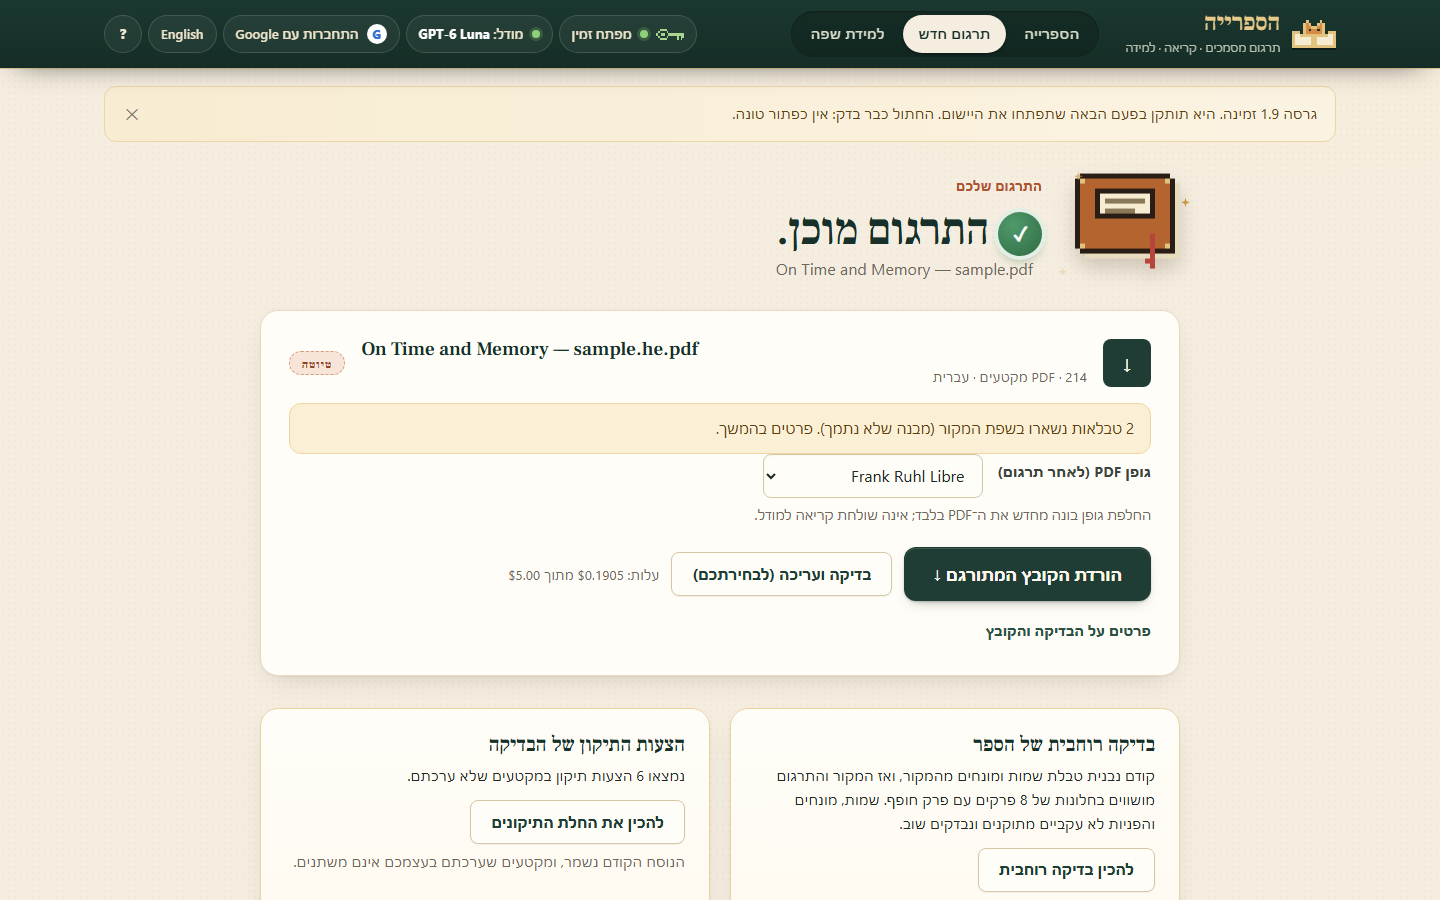
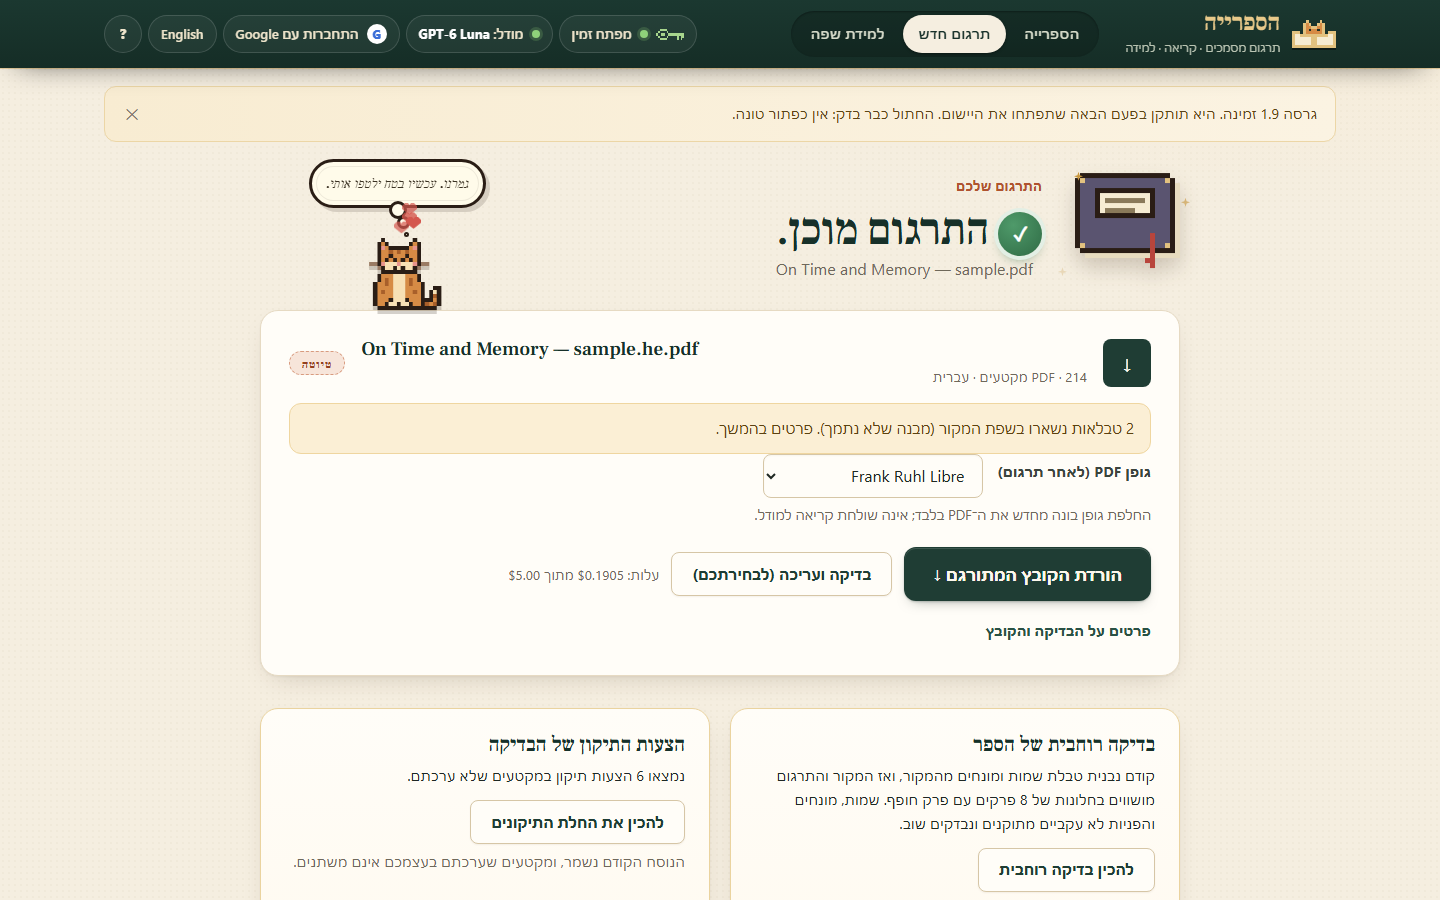
UX-LIBRARY-ROAMING: bindery props beside the book; the cat always has a perch

Changed region(s): [[0.2188, 0.1556, 0.3438, 0.3733], [0.75, 0.1867, 0.8125, 0.28]]

diff --git a/design/pixel-library/library-app.css b/design/pixel-library/library-app.css
@@ -122,6 +122,7 @@ main{max-width:1280px;margin:auto;padding:34px 24px 80px;outline:none}
 .hero-art{position:relative;min-height:260px;-webkit-mask-image:linear-gradient(to left,transparent 0,#000 26%);mask-image:linear-gradient(to left,transparent 0,#000 26%)}
 html[dir=ltr] .hero-art{-webkit-mask-image:linear-gradient(to right,transparent 0,#000 26%);mask-image:linear-gradient(to right,transparent 0,#000 26%)}
 .hero-scene{position:absolute;inset:0;width:100%;height:100%}
+.art-floor{position:absolute;inset-inline-start:30%;inset-inline-end:5%;bottom:20%;height:2px;pointer-events:none}
 html[dir=rtl] .hero-scene{transform:scaleX(-1)} /* Window and moon stay clear of the fade beside the copy. */
 .hero-scene .star{animation:twinkle 3.2s steps(2,end) infinite}
 .hero-scene .s1{animation-delay:-.8s}.hero-scene .s2{animation-delay:-1.6s}.hero-scene .s3{animation-delay:-2.4s}
@@ -325,7 +326,7 @@ progress::-moz-progress-bar{border-radius:999px;background:var(--green-700)}
 .decision-opt b{display:block}.decision-opt small{display:block;color:var(--muted);font-size:.82rem}
 
 /* The bindery — a warm desk scene with a real page turn. */
-.bindery{--turn:3s;position:relative;height:300px;margin:6px auto 30px;max-width:620px;border-radius:var(--r-xl);overflow:hidden;text-align:start;
+.bindery{--turn:3s;position:relative;height:300px;margin:6px auto 30px;max-width:760px;border-radius:var(--r-xl);overflow:hidden;text-align:start;
   background:radial-gradient(380px 240px at 50% 22%,#f3cf8a3d,transparent 70%),linear-gradient(#1d3a31,#152c25 64%,#3a2616 64%,#2b1c10);box-shadow:var(--sh-3),inset 0 0 0 1px #ffffff12}
 .bindery[data-step=reading]{--turn:2.4s}.bindery[data-step=reviewing]{--turn:3.6s}.bindery[data-step=rebuilding]{--turn:1.5s}
 .bd-glow{position:absolute;left:50%;top:40px;width:520px;height:320px;transform:translateX(-50%);background:radial-gradient(closest-side,#ffd99033,transparent);animation:glowpulse 6s ease-in-out infinite}
@@ -363,39 +364,33 @@ progress::-moz-progress-bar{border-radius:999px;background:var(--green-700)}
 @keyframes leaf-turn{0%,12%{transform:translateZ(1px) rotateY(0deg)}50%{transform:translateZ(16px) rotateY(-90deg)}88%,100%{transform:translateZ(2px) rotateY(-180deg)}}
 @keyframes leaf-shade{0%,12%{opacity:0}48%{opacity:1}88%,100%{opacity:0}}
 .tome-page.right:after{content:"";position:absolute;inset:0;background:linear-gradient(90deg,#3c281440,transparent 40%);opacity:0;animation:leaf-shade var(--turn) cubic-bezier(.55,.05,.3,1) infinite}
-.glyphs{position:absolute;left:50%;bottom:30%;width:0;height:0;transform:translateZ(20px);pointer-events:none}
-.glyphs b{position:absolute;left:-6px;bottom:0;font:600 18px/1 var(--display);color:#e8c98a;text-shadow:0 0 8px #ffd98f;opacity:0}
-.bd-quill,.bd-glass,.bd-checks,.bd-stamp{opacity:0;transition:opacity .4s}
-.bd-quill{position:absolute;left:14%;top:-6%;width:34px;height:84px;transform:translateZ(30px) rotate(-18deg);transform-origin:40% 100%;filter:drop-shadow(3px 6px 3px #3c281455)}
-.bd-quill svg{display:block;width:100%;height:100%}
-.bd-glass{position:absolute;right:16%;top:24%;width:44px;height:44px;border-radius:50%;transform:translateZ(30px);box-shadow:inset 0 0 0 5px #c8963e,inset 0 0 18px #ffffff88;background:#ffffff1f}
-.bd-glass:after{content:"";position:absolute;bottom:-18px;right:-9px;width:7px;height:22px;border-radius:3px;background:#5a3a23;transform:rotate(-45deg)}
-.bd-checks{position:absolute;left:8%;top:14%;display:grid;gap:22px;transform:translateZ(10px)}
-.bd-checks i{display:block;width:16px;height:9px;border-inline-start:3px solid #2f6b45;border-bottom:3px solid #2f6b45;transform:rotate(-45deg) scale(0);opacity:0}
-.bd-stamp{position:absolute;top:-6px;inset-inline-end:-30px;padding:7px 12px;border-radius:6px;font:800 .9rem/1 var(--sans);letter-spacing:.1em;color:#c0392b;box-shadow:inset 0 0 0 3px #c0392b;transform:rotate(-14deg)}
-.bd-candle{position:absolute;bottom:62px;inset-inline-start:52px;width:14px;height:40px;border-radius:2px;background:linear-gradient(90deg,#f6ecd2,#d9c9a1)}
+/* Desk props: beside the book, out of the leaf's sweep. Physical sides, like the book itself. */
+.bd-perch{position:absolute;left:14px;bottom:108px;width:190px;height:2px;pointer-events:none}
+.bd-props{position:absolute;right:16px;bottom:62px;width:190px;height:110px;pointer-events:none}
+.bd-candle{position:absolute;right:6px;bottom:0;width:14px;height:46px;border-radius:2px;background:linear-gradient(90deg,#f6ecd2,#d9c9a1);box-shadow:0 4px 0 -1px #c9b48a}
 .bd-candle i{position:absolute;top:-16px;left:2px;width:10px;height:15px;border-radius:50% 50% 50% 50%/60% 60% 40% 40%;background:radial-gradient(circle at 50% 70%,#fff4c4,#f5b94b 60%,#e07b2a);box-shadow:0 0 22px 8px #f5b94b55;animation:flame 1.5s ease-in-out infinite}
-.bd-mug{position:absolute;bottom:58px;inset-inline-end:60px;width:30px;height:28px;border-radius:3px 3px 8px 8px;background:linear-gradient(90deg,#7e3027,#a8483b 40%,#7e3027)}
-.bd-mug:after{content:"";position:absolute;top:6px;inset-inline-end:-10px;width:10px;height:13px;border-radius:0 8px 8px 0;box-shadow:inset 0 0 0 3px #8e3b2f}
-html[dir=rtl] .bd-mug:after{border-radius:8px 0 0 8px}
-.bd-mug i{position:absolute;bottom:32px;left:8px;width:4px;height:16px;border-radius:2px;background:#ffffff2e;animation:steam 2.6s ease-in-out infinite}
-.bd-mug i+i{left:17px;animation-delay:-1.3s}
-@keyframes steam{0%{transform:translateY(6px) scaleY(.6);opacity:0}40%{opacity:1}100%{transform:translateY(-14px) scaleY(1.1);opacity:0}}
-/* Stage accessories */
-.bindery[data-step=translating] .bd-quill{opacity:1;animation:quill 1.1s ease-in-out infinite}
-.bindery[data-step=translating] .glyphs b{animation:glyph 3.2s ease-out infinite}
-.bindery[data-step=translating] .glyphs b:nth-child(2){animation-delay:-.8s}.bindery[data-step=translating] .glyphs b:nth-child(3){animation-delay:-1.6s}.bindery[data-step=translating] .glyphs b:nth-child(4){animation-delay:-2.4s}
-.bindery[data-step=reading] .bd-glass{opacity:1;animation:glass 3.4s ease-in-out infinite}
-.bindery[data-step=reviewing] .bd-checks{opacity:1}
-.bindery[data-step=reviewing] .bd-checks i{animation:tick 2.4s ease-out infinite}
-.bindery[data-step=reviewing] .bd-checks i:nth-child(2){animation-delay:.6s}.bindery[data-step=reviewing] .bd-checks i:nth-child(3){animation-delay:1.2s}
-.bindery[data-step=rebuilding] .bd-stamp{opacity:1;animation:stamp 1.8s cubic-bezier(.5,0,.3,1.4) infinite}
-@keyframes quill{0%,100%{transform:translateZ(30px) rotate(-18deg) translate(0,0)}25%{transform:translateZ(30px) rotate(-12deg) translate(12px,3px)}50%{transform:translateZ(30px) rotate(-20deg) translate(26px,0)}75%{transform:translateZ(30px) rotate(-14deg) translate(40px,4px)}}
-@keyframes glyph{0%{opacity:0;transform:translate(0,0) scale(.6)}20%{opacity:1}100%{opacity:0;transform:translate(var(--gx,-60px),-70px) scale(1.15) rotate(-12deg)}}
-.glyphs b:nth-child(2){--gx:-30px}.glyphs b:nth-child(3){--gx:-80px}.glyphs b:nth-child(4){--gx:-10px}
-@keyframes glass{0%,100%{transform:translateZ(30px) translate(0,0)}50%{transform:translateZ(30px) translate(-40px,50px)}}
-@keyframes tick{0%,10%{opacity:0;transform:rotate(-45deg) scale(0)}25%,80%{opacity:1;transform:rotate(-45deg) scale(1)}100%{opacity:0;transform:rotate(-45deg) scale(1)}}
-@keyframes stamp{0%,100%{transform:rotate(-14deg) translateY(-10px) scale(1.15);opacity:.4}45%,60%{transform:rotate(-14deg) translateY(0) scale(1);opacity:1}}
+.bd-ink{position:absolute;right:38px;bottom:0;width:30px;height:24px;border-radius:7px 7px 9px 9px;background:radial-gradient(circle at 35% 30%,#4a586c,#151d28 70%);box-shadow:inset 0 2px 0 #ffffff26,0 4px 5px -1px #0008}
+.bd-ink:before{content:"";position:absolute;top:-6px;left:8px;width:14px;height:8px;border-radius:2px;background:#1b2430;box-shadow:inset 0 2px 0 #ffffff1c}
+.bd-quill{position:absolute;right:40px;bottom:14px;width:30px;height:76px;transform-origin:32% 100%;transform:rotate(12deg);filter:drop-shadow(2px 4px 2px #0006)}
+.bd-quill svg{display:block;width:100%;height:100%}
+.bd-glass{position:absolute;right:92px;bottom:4px;width:46px;height:46px;border-radius:50%;box-shadow:inset 0 0 0 5px #c8963e,inset 0 0 16px #ffffff66,0 6px 8px -4px #0008;background:radial-gradient(circle at 35% 30%,#ffffff55,#ffffff12 60%);opacity:0;transition:opacity .4s}
+.bd-glass:after{content:"";position:absolute;bottom:-14px;right:-8px;width:7px;height:22px;border-radius:3px;background:#5a3a23;transform:rotate(-45deg)}
+.bd-stamper{position:absolute;right:98px;bottom:0;width:36px;height:56px;opacity:0;transition:opacity .4s}
+.bd-stamper:before{content:"";position:absolute;bottom:0;left:0;width:36px;height:12px;border-radius:3px;background:linear-gradient(#7a5233,#4b301b);box-shadow:0 -3px 0 #c0392b inset}
+.bd-stamper i{position:absolute;bottom:12px;left:12px;width:12px;height:30px;border-radius:6px 6px 2px 2px;background:linear-gradient(90deg,#8a5d3b,#b98552 50%,#8a5d3b)}
+.bd-stamper i:before{content:"";position:absolute;top:-12px;left:-4px;width:20px;height:16px;border-radius:50%;background:radial-gradient(circle at 35% 30%,#c98a5a,#7a4a2a)}
+/* Marks printed on the pages turn with them. */
+.lines.tgt i{position:relative}
+.page-stamp{position:absolute;left:16px;bottom:22px;padding:4px 8px;border:2px solid #c0392b;border-radius:4px;color:#c0392b;font:800 .6rem/1 var(--sans);letter-spacing:.1em;transform:rotate(-10deg);opacity:0}
+.bindery[data-step=translating] .bd-quill{animation:quill 2.6s ease-in-out infinite}
+.bindery[data-step=reading] .bd-glass{opacity:1;animation:glass 3.2s ease-in-out infinite}
+.bindery[data-step=reviewing] .lines.tgt i:nth-child(odd):after{content:"";position:absolute;left:-15px;top:-4px;width:9px;height:5px;border-left:2px solid #2f6b45;border-bottom:2px solid #2f6b45;transform:rotate(-45deg)}
+.bindery[data-step=rebuilding] .bd-stamper{opacity:1;animation:stamper 1.5s cubic-bezier(.5,0,.3,1.3) infinite}
+.bindery[data-step=rebuilding] .page-stamp{opacity:.85}
+@keyframes quill{0%,100%{transform:rotate(12deg) translate(0,0)}18%{transform:rotate(4deg) translate(-2px,-22px)}34%{transform:rotate(8deg) translate(0,-2px)}50%{transform:rotate(18deg) translate(-6px,-16px)}62%{transform:rotate(10deg) translate(-12px,-14px)}74%{transform:rotate(18deg) translate(-18px,-16px)}86%{transform:rotate(10deg) translate(-8px,-10px)}}
+@keyframes glass{0%,100%{transform:translate(0,0) rotate(0)}50%{transform:translate(-14px,-10px) rotate(-8deg)}}
+@keyframes stamper{0%,100%{transform:translateY(-14px)}45%,60%{transform:translateY(0)}}
+@keyframes flame{0%,100%{transform:scale(1,1)}50%{transform:scale(.88,1.08) translateY(-1px)}}
 .bindery[data-running=false] *,.bindery[data-running=false] *:before,.bindery[data-running=false] *:after{animation-play-state:paused!important}
 
 /* Result */
@@ -548,7 +543,7 @@ dialog[open]{animation:dialog-in .22s cubic-bezier(.2,.8,.3,1)}
   .bd-stage{transform:scale(.78);transform-origin:50% 100%}
   .bd-window{width:62px;height:72px;inset-inline-end:16px}
   .bd-window:before{left:29px}.bd-window:after{top:36px}
-  .bd-candle{inset-inline-start:18px}.bd-mug{inset-inline-end:16px}
+  .bd-props .bd-glass,.bd-props .bd-stamper,.bd-props .bd-ink,.bd-props .bd-quill{display:none}.bd-props{width:40px;right:8px}.bd-perch{display:none}
   .footer-row{padding:14px 16px}
   .inline-field select{min-width:0;width:100%}
 }

diff --git a/design/pixel-library/library-app.js b/design/pixel-library/library-app.js
@@ -319,7 +319,7 @@
           <p>${t('מתרגמים PDF ו־EPUB, קוראים ולומדים שפה מתוך הסיפור. החתול אחראי על ההפסקות.', 'Translate PDFs and EPUBs, read them, and learn a language from the story. The cat is in charge of breaks.')}</p>
           <div class="row hero-actions"><button type="button" class="btn gold" data-go="new">+ ${t('ספר חדש לתרגום', 'New book to translate')}</button><button type="button" class="btn ghost-light" data-act="sample">${t('נסו עם PDF דוגמה, ללא עלות', 'Try a sample PDF, free')}</button></div>
           <div class="hero-stats"><button type="button" data-tab="done">${doneCount} ${t('מוכנים', 'ready')}</button><button type="button" data-tab="progress">${progress.length} ${t('בעבודה', 'in progress')}</button>${blocked ? `<button type="button" class="stat-warn" data-tab="progress">${blocked} ${t('מחכה להחלטה', 'awaiting a decision')}</button>` : ''}</div>
-        </div><div class="hero-art">${heroScene()}</div></section>
+        </div><div class="hero-art">${heroScene()}<i class="art-floor" data-perch="hero-floor"></i></div></section>
       <section class="shelf-section" data-perch="shelf-top" aria-labelledby="shelf-title">
         <div class="shelf-head"><div><h2 id="shelf-title">${t('התרגומים שלכם', 'Your translations')}</h2><p class="muted">${S.libTab === 'done' ? t('כל מה שתורגם ונשמר במחשב שלכם. בחרו ספר מהמדף כדי להוריד, לפתוח או ללמוד.', 'Everything translated and saved on your computer. Pick a book to download, open or learn from.') : t('עבודות שעוד לא הסתיימו. אפשר להמשיך, להחליט או להוריד חלקית.', 'Work that is not finished yet. Continue, decide, or download partially.')}</p></div>
           <div class="shelf-tools"><div class="tabs" role="tablist" aria-label="${t('סוג המסמכים בספרייה', 'Library document type')}">
@@ -525,22 +525,23 @@
     const running = !['paused', 'interrupted', 'completed'].includes(j.status);
     const step = j.status === 'paused' || j.status === 'interrupted' ? j.lastStage : j.status;
     const lines = (n, cls) => `<div class="lines ${cls}">${Array.from({ length: n }, (_, i) => `<i style="--w:${[92, 84, 96, 70, 88, 94, 62, 90, 80][i % 9]}%"></i>`).join('')}</div>`;
-    const leaf = d => `<div class="leaf" style="--delay:${d}"><div class="face front">${lines(8, 'src')}<span class="folio">${d === '0s' ? 'i' : 'ii'}</span></div><div class="face back">${lines(8, 'tgt')}</div></div>`;
-    return `<div class="bindery" data-perch="bindery" data-step="${step}" data-running="${running}" aria-hidden="true">
+    const stamp = `<span class="page-stamp">${t('טיוטה', 'DRAFT')}</span>`;
+    const leaf = d => `<div class="leaf" style="--delay:${d}"><div class="face front">${lines(8, 'src')}</div><div class="face back">${lines(8, 'tgt')}${stamp}</div></div>`;
+    // Props stand beside the book, never in the leaf's path; stage marks are printed on the pages.
+    return `<div class="bindery" data-step="${step}" data-running="${running}" aria-hidden="true">
       <div class="bd-glow"></div><div class="bd-window"><i class="bd-moon"></i><i class="bd-star"></i><i class="bd-star two"></i><i class="bd-star three"></i></div>
       <div class="bd-lamp"><i class="bd-cord"></i><i class="bd-shade"></i><i class="bd-bulb"></i></div>
-      <div class="bd-desk"></div>
+      <div class="bd-desk"></div><i class="bd-perch" data-perch="bindery"></i>
       <div class="bd-stage"><div class="tome">
         <div class="tome-cover"></div>
-        <div class="tome-page left">${lines(8, 'tgt')}<span class="folio">${j.chapter || 1}</span></div>
+        <div class="tome-page left">${lines(8, 'tgt')}${stamp}<span class="folio">${j.chapter || 1}</span></div>
         <div class="tome-page right">${lines(8, 'src')}</div>
         ${leaf('0s')}${leaf('calc(var(--turn) / -2)')}
         <div class="tome-gutter"></div>
-        <div class="glyphs"><b>A</b><b>א</b><b>文</b><b>ß</b></div>
-        <div class="bd-quill"><svg viewBox="0 0 34 84"><path d="M30 2C14 14 6 36 9 62l3 8c2-22 9-44 18-68z" fill="#fffaf0" stroke="#cdbb92" stroke-width="1"/><path d="M30 2C20 22 14 44 11 70" fill="none" stroke="#9c7c4a" stroke-width="1.4"/><path d="M14 30l-5 2M16 22l-6 3M13 40l-5 1M12 50l-4 1" stroke="#e4d6b8" stroke-width="1"/><path d="M10 68l1 14 3-13z" fill="#2b1c10"/></svg></div><div class="bd-glass"></div>
-        <div class="bd-checks"><i></i><i></i><i></i></div>
-      </div><div class="bd-stamp">${t('טיוטה', 'DRAFT')}</div></div>
-      <div class="bd-candle"><i></i></div><div class="bd-mug"><i></i><i></i></div>
+      </div></div>
+      <div class="bd-props"><div class="bd-glass"></div><div class="bd-stamper"><i></i></div><div class="bd-ink"></div>
+        <div class="bd-quill"><svg viewBox="0 0 34 84"><path d="M30 2C14 14 6 36 9 62l3 8c2-22 9-44 18-68z" fill="#fffaf0" stroke="#cdbb92" stroke-width="1"/><path d="M30 2C20 22 14 44 11 70" fill="none" stroke="#9c7c4a" stroke-width="1.4"/><path d="M14 30l-5 2M16 22l-6 3M13 40l-5 1M12 50l-4 1" stroke="#e4d6b8" stroke-width="1"/><path d="M10 68l1 14 3-13z" fill="#2b1c10"/></svg></div>
+        <div class="bd-candle"><i></i></div></div>
     </div>`;
   }
   function jobPage() {

diff --git a/design/pixel-library/library-cat.js b/design/pixel-library/library-cat.js
@@ -238,7 +238,9 @@
       }
       for (const [a, b] of free) if (b - a >= w + 4) out.push({ el, key: el.dataset.perch, y: r.t, a, b, left: r.l });
     }
-    return out;
+    // The screen-edge floor is a last resort, used only when no real perch is free.
+    const real = out.filter(seg => seg.key !== 'floor');
+    return real.length || onlyEl ? real.concat(onlyEl ? out.filter(seg => seg.key === 'floor') : []) : out;
   }
   function placeFree(x, y) {
     // Is the cat's box at (x, y) clear of controls and visible?
@@ -624,6 +626,11 @@
   window.libraryCat = {
     mount() {
       if (!root.isConnected) document.body.append(root);
+      if (!document.querySelector('.roam-floor')) {
+        const floor = document.createElement('div');
+        floor.className = 'roam-floor'; floor.dataset.perch = 'floor'; floor.setAttribute('aria-hidden', 'true');
+        document.body.append(floor);
+      }
       new MutationObserver(reconcile).observe(document.body, { subtree: true, attributes: true, attributeFilter: ['open'] });
       body.setAttribute('aria-label', he() ? 'חתול הספרייה. לחיצה מלטפת, גרירה מרימה אותו' : 'The library cat. Click to pet, drag to pick up');
       if (mode !== 'away') start();

diff --git a/design/pixel-library/library-cat.css b/design/pixel-library/library-cat.css
@@ -35,3 +35,4 @@
 .roam-thought.side:after{display:none}
 .roam-dot{position:absolute;width:5px;height:5px;bottom:-32px;left:calc(var(--tail) + 3px);background:#fffbea;border:2px solid #2a1d15;border-radius:50%}
 .roam-thought.side .roam-dot{display:none}
+.roam-floor{position:fixed;left:0;right:0;bottom:10px;height:1px;pointer-events:none}

diff --git a/docs/design/pixel-library/LIBRARY_ROAMING_HE.md b/docs/design/pixel-library/LIBRARY_ROAMING_HE.md
@@ -65,4 +65,7 @@
 - שפה חזותית חדשה: קלף חם, כרטיסים רכים, צללים עדינים ופינות מעוגלות. פיקסל ארט נשאר באיורים, בשדרות הספרים ובחתול. כותרות וטקסט קריאה בגופן Frank Ruhl Libre שמגיע עם האפליקציה (OFL; עותק מקומי ב־`fonts/`).
 - כותרת עליונה עם ניווט בצורת גלולות, באנר שבו האיור נמוג אל הטקסט, ספרייה עם מדפי עץ מוצללים וכרטיס ספר עם כריכה תלת־ממדית.
 - אפשרויות התרגום מקובצות לארבעה חלקים: איך לתרגם, מודל ועלות, סריקה וגופן, המונחים שלי.
-- הנפשת הדפדוף נבנתה מחדש: ספר פתוח על שולחן, דף אמיתי שמתהפך בתלת־ממד סביב השדרה, עם הצללה בזמן ההרמה. בצד אחד של הדף המקור ובצד השני התרגום (שורות מיושרות לימין). לכל שלב עזר משלו: זכוכית מגדלת בקריאה, נוצה כותבת ואותיות עולות בתרגום, סימני ✓ בבדיקה, וחותמת "טיוטה" בבניית הקובץ. ההשהיה מקפיאה הכול באותה תנוחה.
+- הנפשת הדפדוף נבנתה מחדש: ספר פתוח על שולחן, דף אמיתי שמתהפך בתלת־ממד סביב השדרה, עם הצללה בזמן ההרמה. בצד אחד של הדף המקור ובצד השני התרגום (שורות מיושרות לימין). החפצים עומדים על השולחן לצד הספר, מחוץ למסלול הדף: נוצה שטובלת בקסת בזמן התרגום, זכוכית מגדלת בקריאה וחותמת בבניית הקובץ. סימני ✓ וחותמת "טיוטה" מודפסים על הדפים עצמם ומתהפכים איתם. בצד השני של השולחן יושב החתול ומפקח. ההשהיה מקפיאה הכול באותה תנוחה.
+
+
+לחתול תמיד יש מקום: על השולחן בעמוד התרגום, על רצפת הספרייה שבאיור הבאנר, ובמקרה הצורך על קצה המסך התחתון — רק במקום פנוי מפקדים וטקסט.
